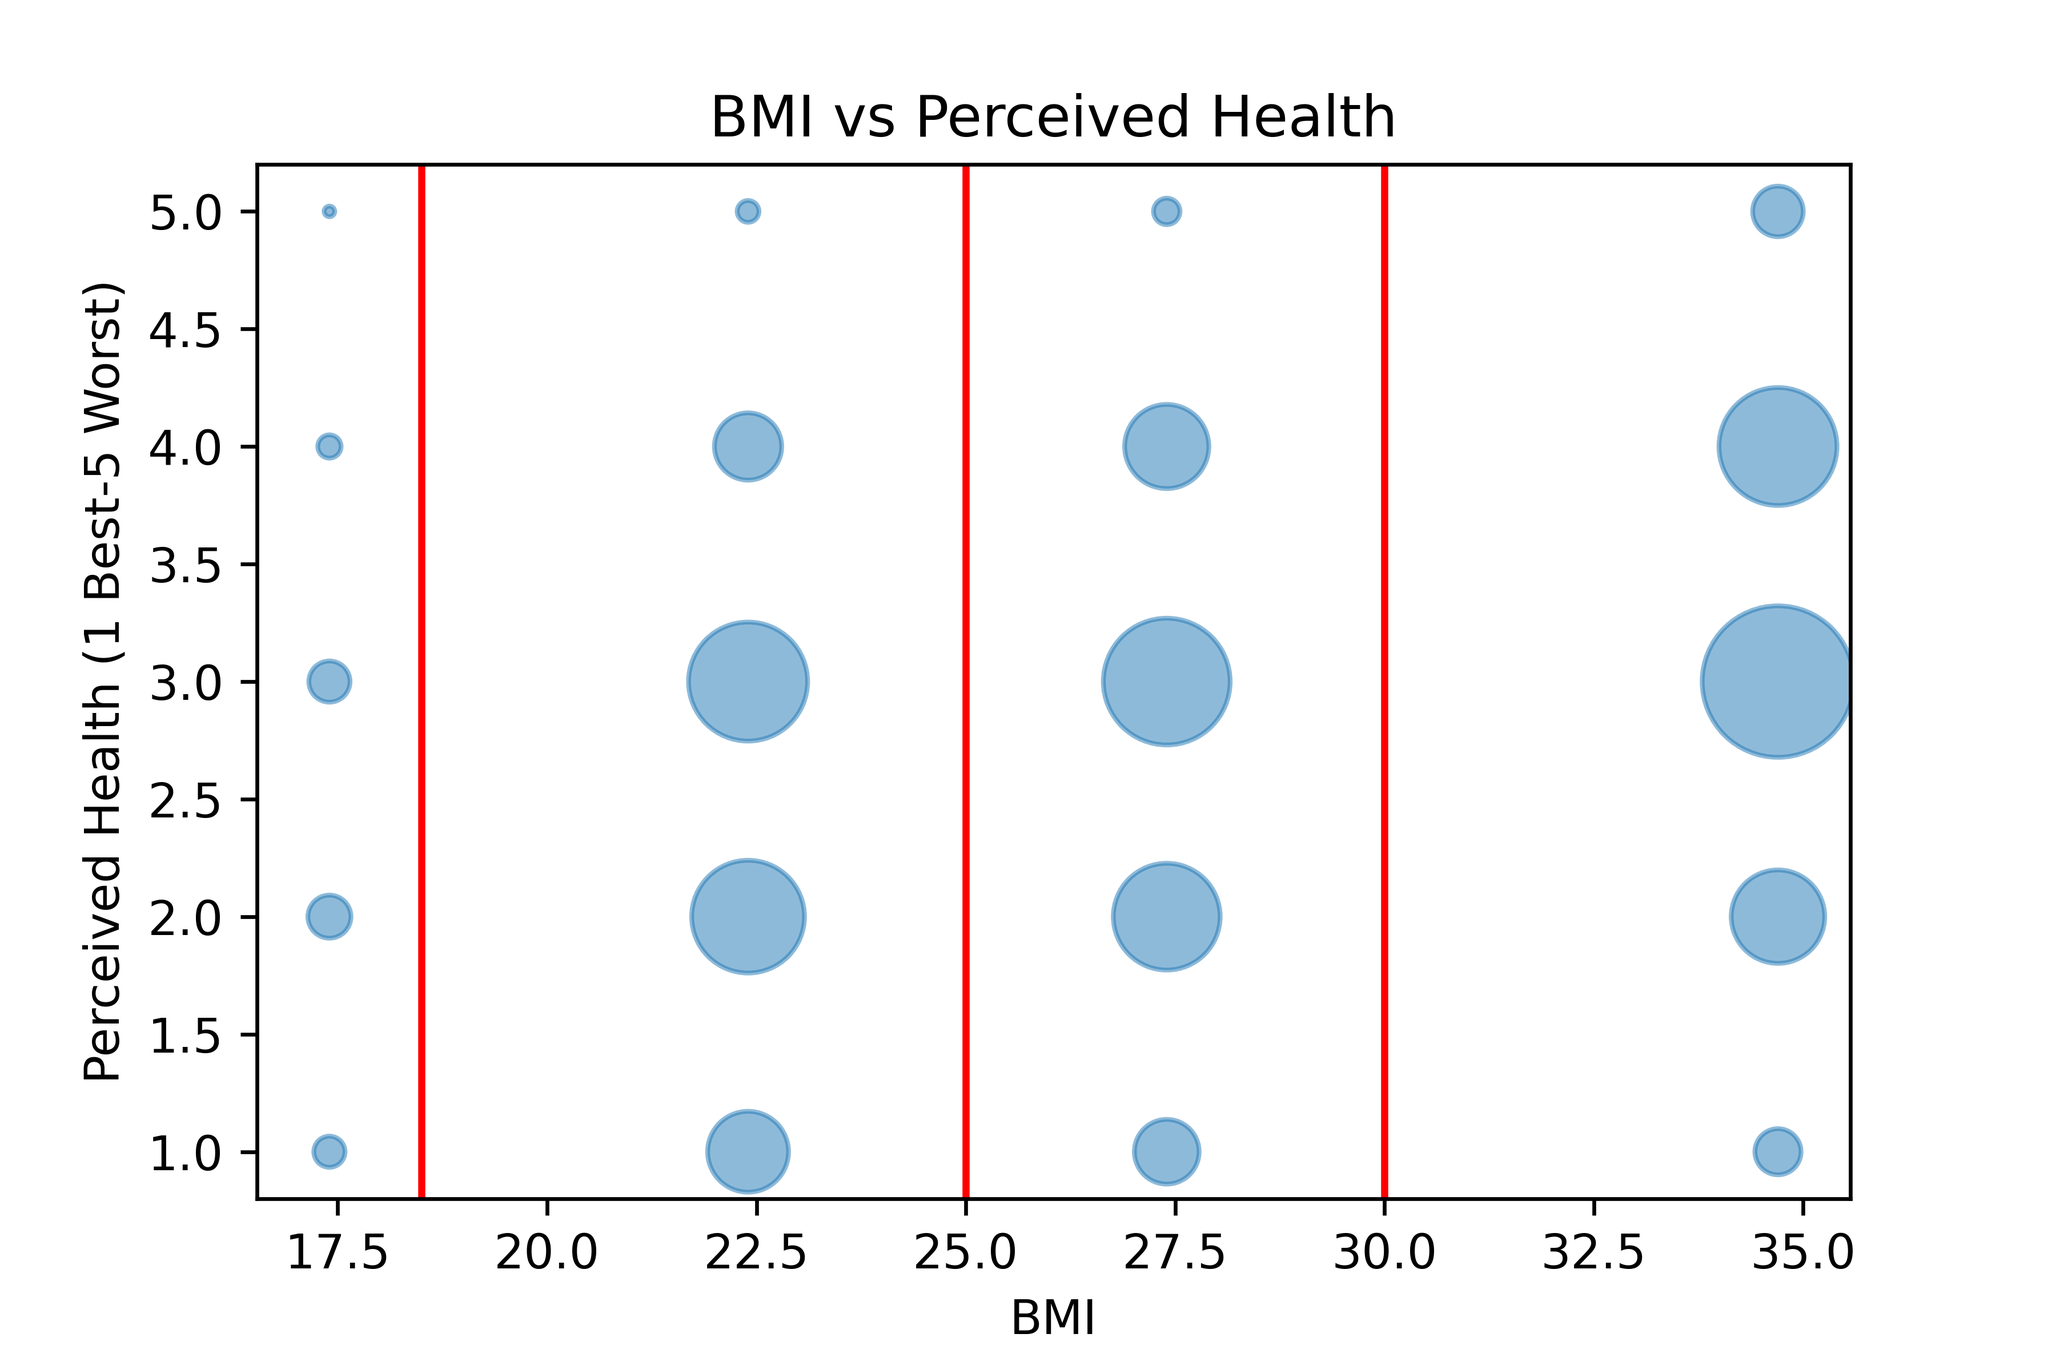
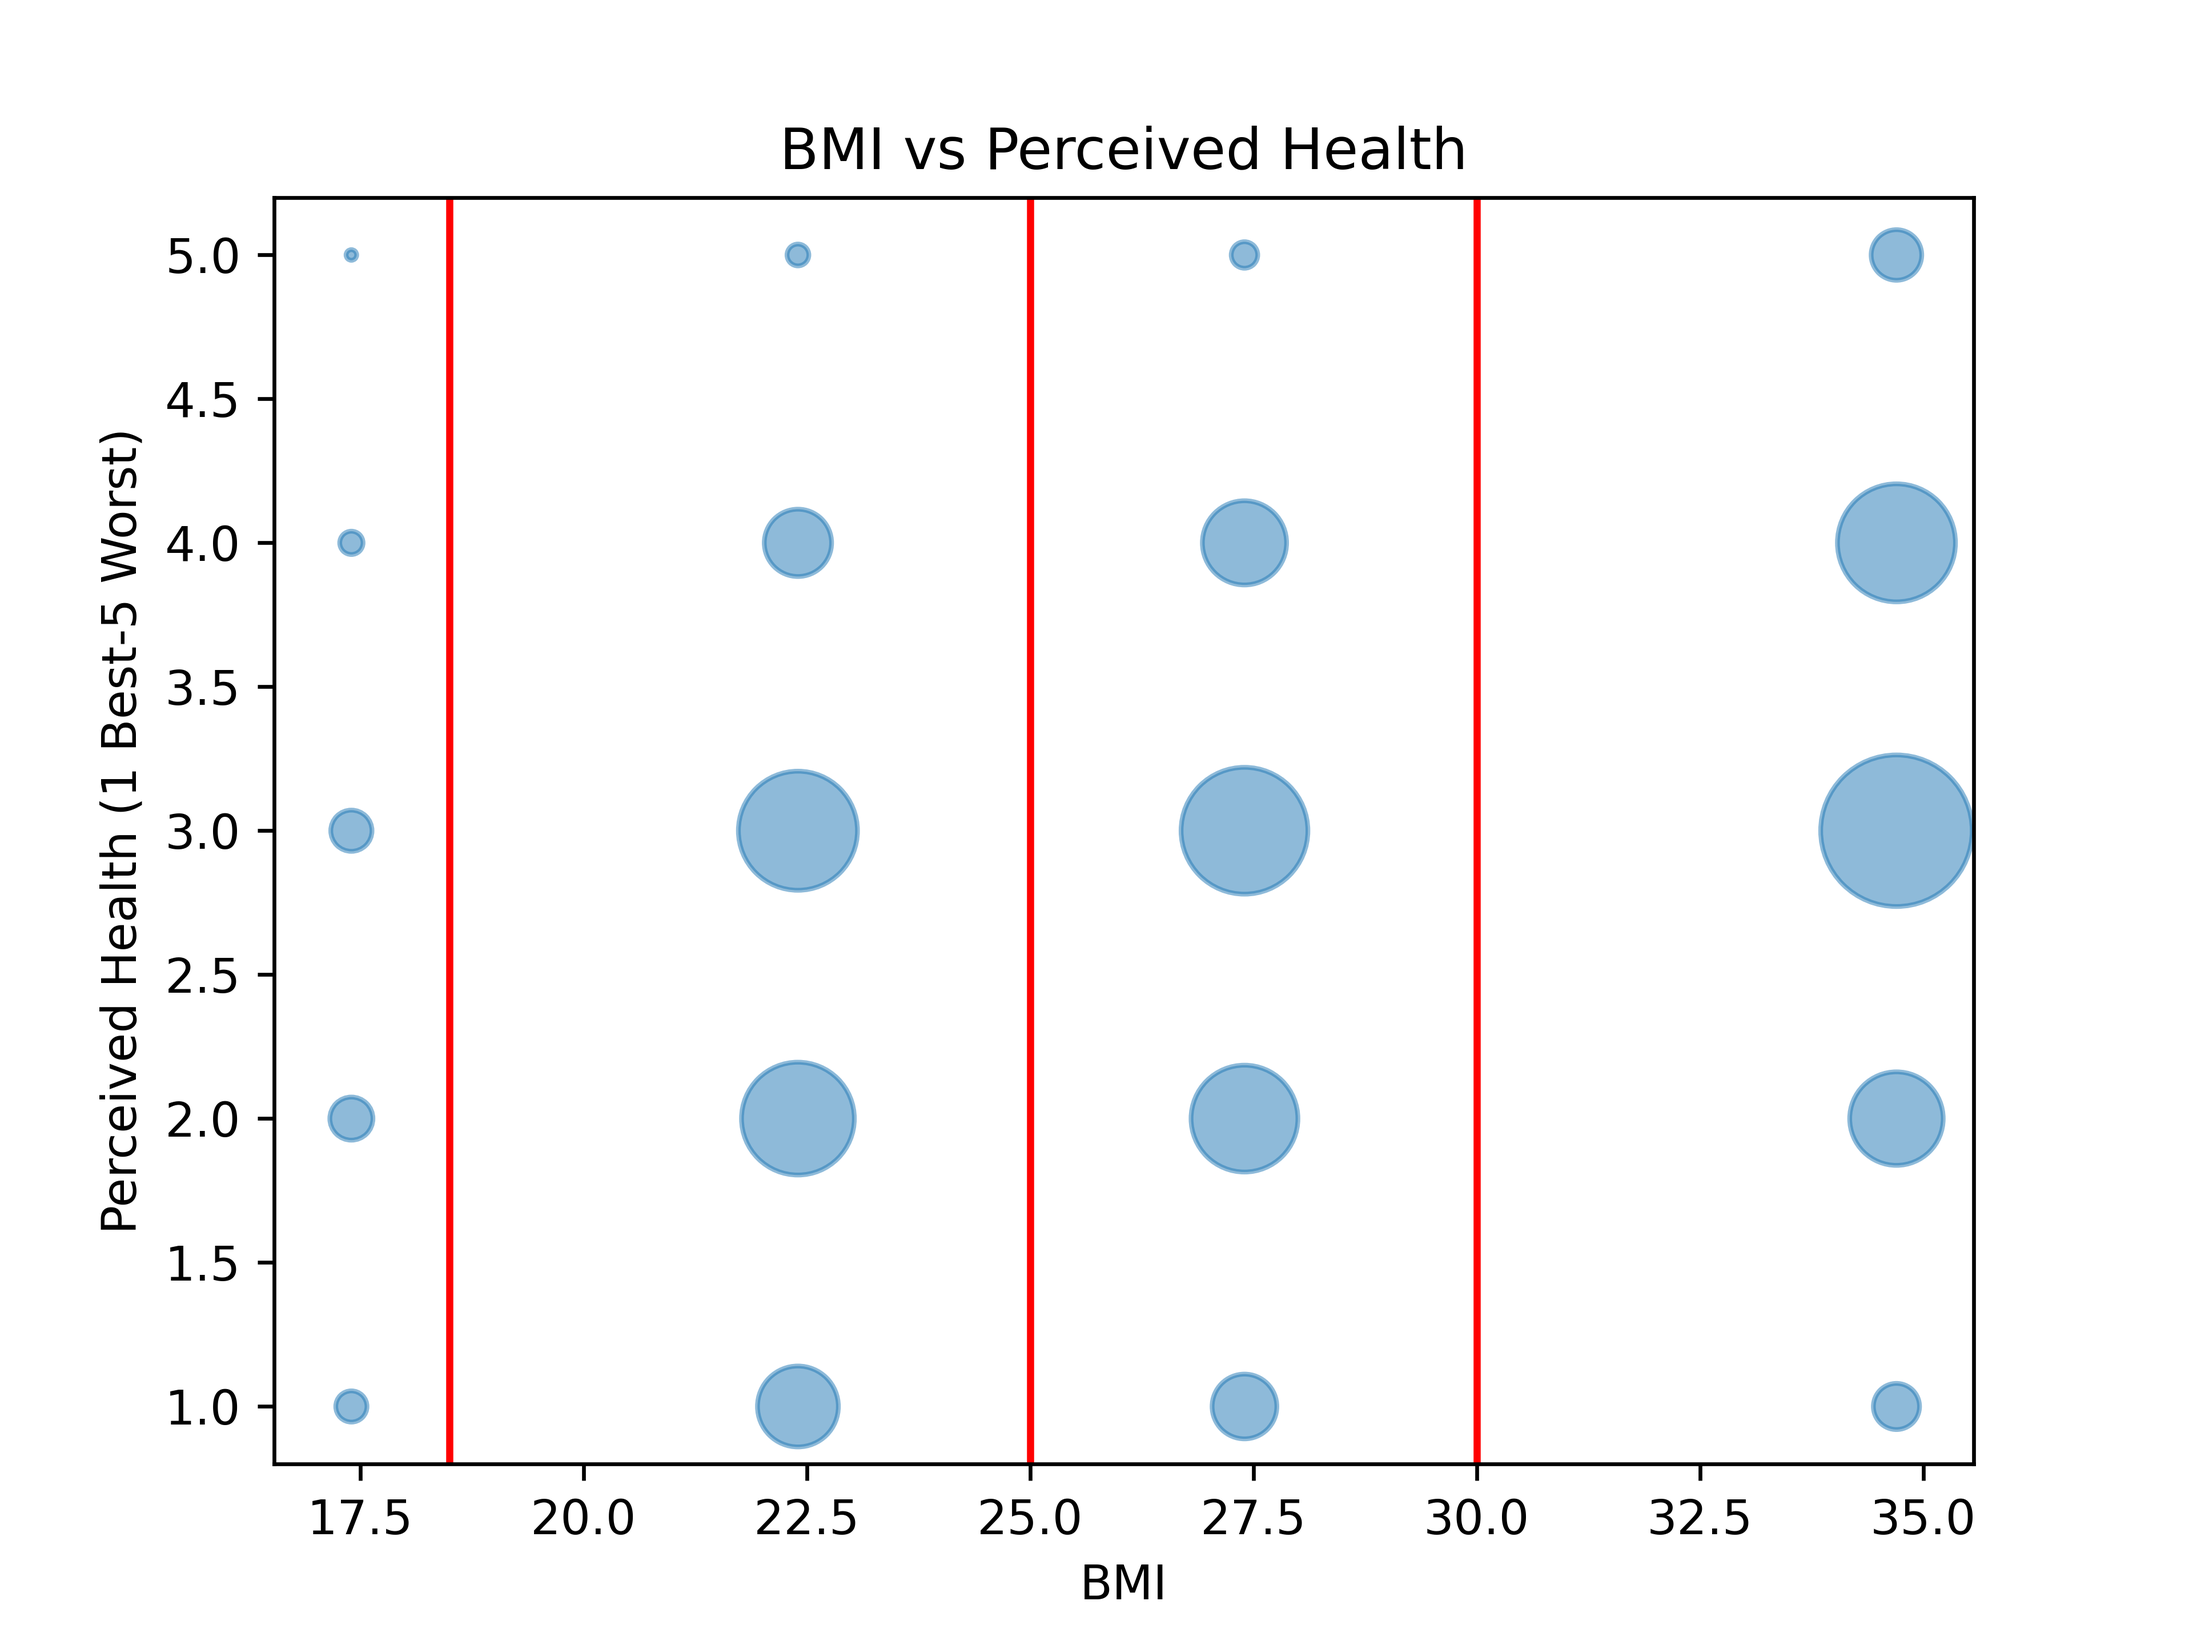
Create script for exploratory data analysis

diff --git a/code/eda.py b/code/eda.py
@@ -1,0 +1,245 @@
+import pandas as pd
+import numpy as np
+import statistics
+import matplotlib.pyplot as plt
+
+FIGURE_DIRECTORY = '../fig/'
+FIGURE_DPI = 600
+
+def create_df_sas(link, cols):
+    '''
+    @param link: string for link to read data from XPORT or SAS7BDAT files
+    @param cols: list of strings representing names for columns
+    '''
+    df = pd.read_sas(link)
+    df.columns = cols
+
+    return df
+
+def merge_dfs(df1, df2, col):
+    '''
+    @param df1, df2: DataFrames to merge
+    @param on: string of column to merge on
+    '''
+
+    return pd.merge(df1, df2, on=col)
+
+def save_figure(path):
+    '''
+    @param path: string of path for the created figure
+    '''
+    plt.savefig(FIGURE_DIRECTORY+path, dpi=FIGURE_DPI)
+
+### Initial DataFrame Creation
+# Create DataFrame for Demographic data
+# Refer to # https://wwwn.cdc.gov/Nchs/Nhanes/2017-2018/DEMO_J.htm for the data dict
+demo_link = 'https://wwwn.cdc.gov/Nchs/Nhanes/2017-2018/DEMO_J.XPT'
+demo_cols = ['ID',
+             'Data release cycle',
+             'Interview/Examination status',
+             'Gender',
+             'Age in years at screening',
+             'Age in months at screening - 0 to 24 mos',
+             'Race/Hispanic origin',
+             'Race/Hispanic origin w/ NH Asian',
+             'Six month time period',
+             'Age in months at exam - 0 to 19 years',
+             'Served active duty in US Armed Forces',
+             'Served in a foreign country',
+             'Country of birth',
+             'Citizenship status',
+             'Length of time in US',
+             'Education level - Children/Youth 6-19',
+             'Education level - Adults 20+',
+             'Marital status',
+             'Pregnancy status at exam',
+             'Language of SP Interview',
+             'Proxy used in SP Interview?',
+             'Interpreter used in SP Interview?',
+             'Language of Family Interview',
+             'Proxy used in Family Interview?',
+             'Interpreter used in Family Interview?',
+             'Language of MEC Interview',
+             'Proxy used in MEC Interview?',
+             'Interpreter used in MEC Interview?',
+             'Language of ACASI Interview',
+             'Total number of people in the Household',
+             'Total number of people in the Family',
+             '# of children 5 years or younger in HH',
+             '# of children 6-17 years old in HH',
+             '# of adults 60 years or older in HH',
+             'HH ref person\'s gender',
+             'HH ref person\'s age in years',
+             'HH ref person\'s education level',
+             'HH ref person\'s marital status',
+             'HH ref person\'s spouse\'s education level',
+             'Full sample 2 year interview weight',
+             'Full sample 2 year MEC exam weight',
+             'Masked variance pseudo-PSU',
+             'Masked variance pseudo-stratum',
+             'Annual household income',
+             'Annual family income',
+             'Ratio of family income to poverty']
+demo_df = create_df_sas(demo_link, demo_cols)
+# print(demo_df.head(5))
+
+# Create DataFrame for Occupation and Income
+# Refer to https://wwwn.cdc.gov/Nchs/Nhanes/2017-2018/OCQ_J.htm for Occupation data dict
+# Refer to https://wwwn.cdc.gov/Nchs/Nhanes/2017-2018/INQ_J.htm for Income data dict
+occ_link = 'https://wwwn.cdc.gov/Nchs/Nhanes/2017-2018/OCQ_J.XPT'
+inc_link = 'https://wwwn.cdc.gov/Nchs/Nhanes/2017-2018/INQ_J.XPT'
+occ_cols = ['ID',
+            'Type of Work', 
+            'Hours Worked Last Week', 
+            'Usually Work 35 or More Hours?', 
+            'Type of Employee', 
+            'Months Worked', 
+            'Overall Work Schedule', 
+            'Main Reason for Not Working', 
+            'Kind of Occupation Done the Longest', 
+            'Duration of Longest Job']
+inc_cols = ['ID',
+            'Income from wages/salaries?',
+            'Income from self employment?',
+            'Income from Social Security or RR?',
+            'Income from other disability pension?',
+            'Income from retirement/survivor pension?',
+            'Income from Supplemental Security Income?',
+            'Income from state/county cash assistance?',
+            'Income from interest/dividends or rental?',
+            'Income from other sources?',
+            'Monthly family income',
+            'Family monthly poverty level index',
+            'Family monthly poverty level category',
+            'Family has savings more than $20,000?',
+            'Total savings/cash assets for the family',
+            'How do you get to the grocery store?']
+occ_df = create_df_sas(occ_link, occ_cols)
+inc_df = create_df_sas(inc_link, inc_cols)
+inc_occ_df = merge_dfs(inc_df, occ_df, 'ID')
+# print(inc_occ_df.head(5))
+
+# Merge the Demographic, Income, and Occupation DataFrames for potential features
+X_df = merge_dfs(demo_df, inc_occ_df, 'ID')
+# print(X_df.head(5))
+print('Successfully created potential features DataFrame')
+
+# Create DataFrame for Health Status
+# Refer to https://wwwn.cdc.gov/Nchs/Nhanes/2017-2018/HSQ_J.htm for data dict
+healthstat_link = 'https://wwwn.cdc.gov/Nchs/Nhanes/2017-2018/HSQ_J.XPT'
+healthstat_cols = ['ID',
+                   'General health condition',
+                   'SP have head cold or chest cold',
+                   'SP have stomach or intestinal illness?',
+                   'SP have flu, pneumonia, ear infection?',
+                   'SP donated blood in past 12 months?',
+                   'How long ago was last blood donation?',
+                   'Blood ever tested for HIV virus?',
+                   'Source of Health Status Data']
+healthstat_df = create_df_sas(healthstat_link, healthstat_cols)
+# print(healthstat_df.head(5))
+
+# Create DataFrame for body measures
+# Refer to https://wwwn.cdc.gov/Nchs/Nhanes/2017-2018/BMX_J.htm for data dict
+body_link = 'https://wwwn.cdc.gov/Nchs/Nhanes/2017-2018/BMX_J.XPT'
+body_cols = ['ID',
+             'Body Measures Component Status Code',
+             'Weight (kg)',
+             'Weight Comment',
+             'Recumbent Length (cm)',
+             'Recumbent Length Comment',
+             'Head Circumference (cm)',
+             'Head Circumference Comment',
+             'Standing Height (cm)',
+             'Standing Height Comment',
+             'Body Mass Index (kg/m**2)',
+             'Upper Leg Length (cm)',
+             'Upper Leg Length Comment',
+             'Upper Arm Length (cm)',
+             'Upper Arm Length Comment',
+             'Arm Circumference (cm)',
+             'Arm Circumference Comment',
+             'Waist Circumference (cm)',
+             'Waist Circumference Comment',
+             'Hip Circumference (cm)',
+             'Hip Circumference Comment']
+body_df = create_df_sas(body_link, body_cols)
+# print(body_df.head(5))
+
+# Merge the health status and body measure DataFrames for potential labels
+y_df = merge_dfs(healthstat_df, body_df, 'ID')
+# print(y_df.head(5))
+
+# Create a DataFrame for our desired labels
+labels_df = y_df[['ID','General health condition', 'Body Mass Index (kg/m**2)']]
+# Select only valid data for self-reported General Health Condition
+labels_df = labels_df[labels_df['General health condition'].isin([1.0, 2.0, 3.0, 4.0, 5.0])]
+# print(labels_df.head(5))
+print('Successfully created labels DataFrame')
+
+# Create a DataFrame for our desired features
+features = ['ID',
+            'HH ref person\'s gender',
+            'HH ref person\'s age in years',
+            'HH ref person\'s education level',
+            'Race/Hispanic origin w/ NH Asian',
+            'Total savings/cash assets for the family',
+            'Annual family income']
+features_df = X_df[features]
+# print(features_df.head(5))
+
+# Combine our features and labels into a single DataFrame
+df = merge_dfs(features_df, labels_df, 'ID')
+print(df.head(5))
+print('Successfully merged features and labels into one DataFrame')
+
+### Exploratory Data Analysis on Initial DataFrames
+## Relationship between BMI and General Health Condition
+new_ydf = y_df[['Body Mass Index (kg/m**2)','General health condition']]
+# Clean dataset by using only rows where GHC=[1,5] and BMI not null
+new_ydf = new_ydf[new_ydf['General health condition'].isin([1.0, 2.0, 3.0, 4.0, 5.0])]
+new_ydf = new_ydf.dropna(subset=['Body Mass Index (kg/m**2)'])
+
+# Replace BMI in each subgroup with their median
+new_ydf['Body Mass Index (kg/m**2)'][new_ydf['Body Mass Index (kg/m**2)'] <= 18.5] = statistics.median(new_ydf['Body Mass Index (kg/m**2)'][new_ydf['Body Mass Index (kg/m**2)'] <= 18.5])
+new_ydf['Body Mass Index (kg/m**2)'][(new_ydf['Body Mass Index (kg/m**2)']>18.5) & (new_ydf['Body Mass Index (kg/m**2)']<=25)] = statistics.median(new_ydf['Body Mass Index (kg/m**2)'][(new_ydf['Body Mass Index (kg/m**2)']>18.5) & (new_ydf['Body Mass Index (kg/m**2)']<=25)])
+new_ydf['Body Mass Index (kg/m**2)'][(new_ydf['Body Mass Index (kg/m**2)']>25) & (new_ydf['Body Mass Index (kg/m**2)']<=30)] = statistics.median(new_ydf['Body Mass Index (kg/m**2)'][(new_ydf['Body Mass Index (kg/m**2)']>25) & (new_ydf['Body Mass Index (kg/m**2)']<=30)])
+new_ydf['Body Mass Index (kg/m**2)'][new_ydf['Body Mass Index (kg/m**2)']>30] = statistics.median(new_ydf['Body Mass Index (kg/m**2)'][new_ydf['Body Mass Index (kg/m**2)']>30])
+# Get the count of people in each BMI subgroup and adds it as a column. Then, remove duplicates
+new_ydf=new_ydf.value_counts().to_frame().reset_index()
+new_ydf=new_ydf.drop_duplicates()
+
+
+new_bmi = new_ydf['Body Mass Index (kg/m**2)']
+new_ghc = new_ydf['General health condition']
+plt.scatter(new_bmi, new_ghc, alpha=0.5, s=new_ydf[0])
+plt.axvline(x=18.5, color = 'red')
+plt.axvline(x=25, color = 'red')
+plt.axvline(x=30, color = 'red')
+plt.xlabel("BMI")
+plt.ylabel("Perceived Health (1 Best-5 Worst)")
+plt.title("BMI vs Perceived Health")
+save_figure('bmi_ghc.png')
+print('Successfully created ../fig/bmi_ghc.png')
+# plt.show()
+
+a = np.hstack(y_df['Body Mass Index (kg/m**2)'])
+_ = plt.hist(a, bins='auto')  # arguments are passed to np.histogram
+plt.axvline(x=18.5, color = 'red')
+plt.axvline(x=25, color = 'red')
+plt.axvline(x=30, color = 'red')
+plt.title("BMI Histogram")
+plt.xlabel("bmi")
+plt.ylabel("count")
+save_figure('bmi_histogram.png')
+print('Successfully created ../fig/bmi_histogram.png')
+# plt.show()
+
+a = np.hstack(y_df['General health condition'])
+_ = plt.hist(a, bins='auto')  # arguments are passed to np.histogram
+plt.title("Perceived Health Histogram")
+plt.xlabel("general health condition")
+plt.ylabel("count")
+save_figure('ghc_histogram.png')
+print('Successfully created ../fig/ghc_histogram.png')
+# plt.show()
